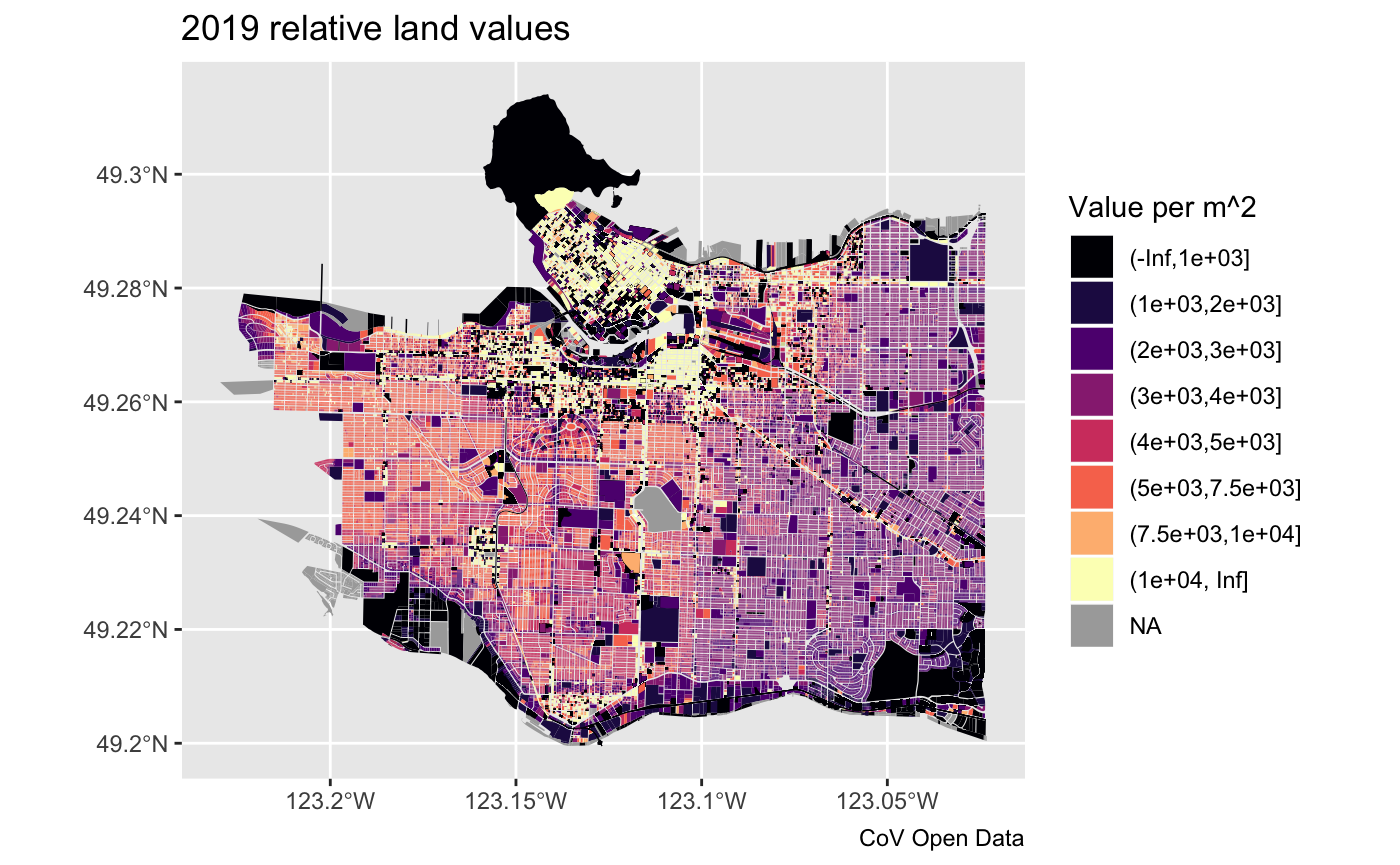
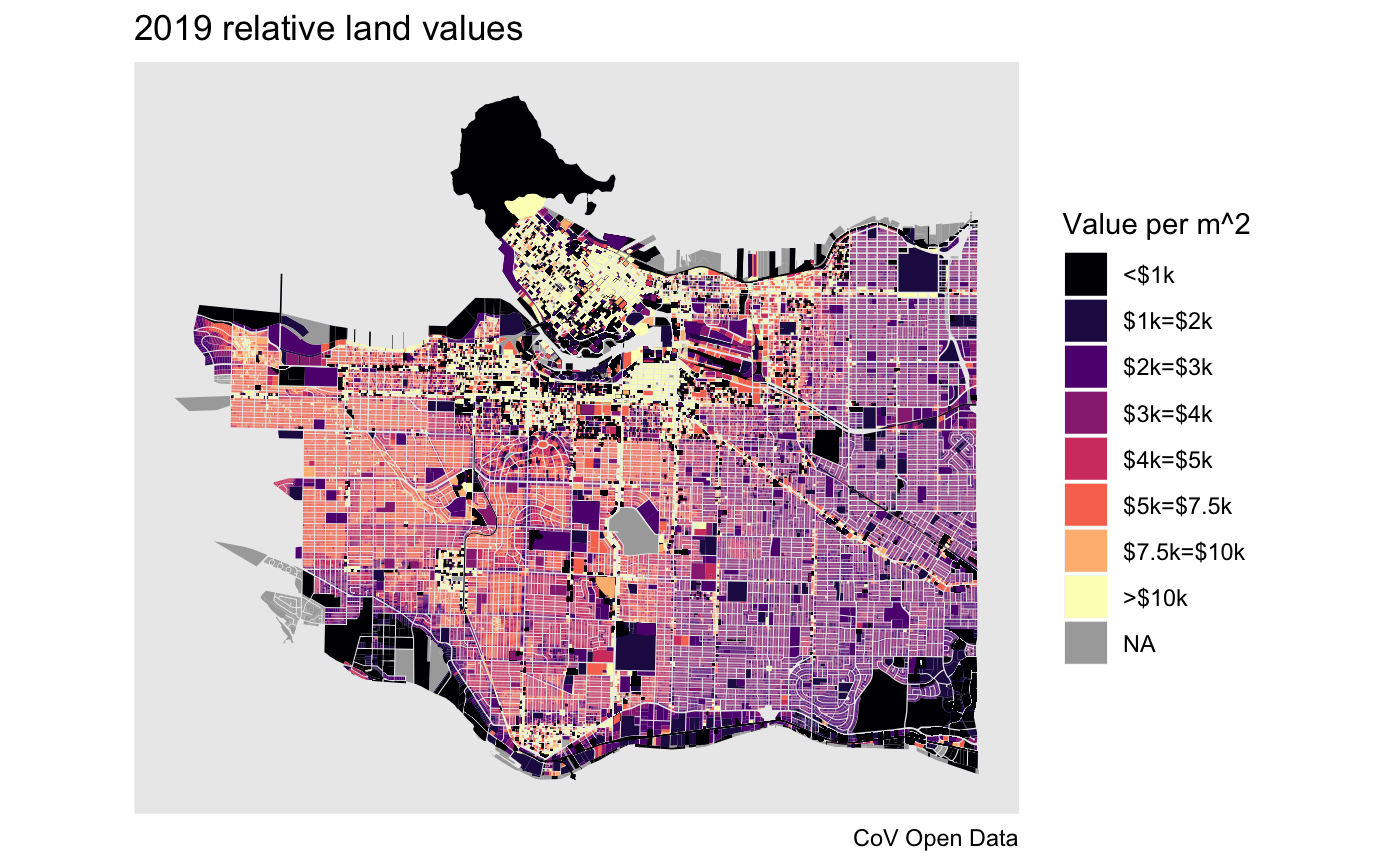
update readme

diff --git a/docs/articles/Demo.html b/docs/articles/Demo.html
@@ -93,21 +93,20 @@
 <div id="get-a-list-of-property-related-datasets" class="section level2">
 <h2 class="hasAnchor">
 <a href="#get-a-list-of-property-related-datasets" class="anchor"></a>Get a list of property related datasets</h2>
-<div class="sourceCode" id="cb2"><pre class="sourceCode r"><code class="sourceCode r"><a class="sourceLine" id="cb2-1" data-line-number="1">l &lt;-<span class="st"> </span><span class="kw"><a href="../reference/list_cov_datasets.html">list_cov_datasets</a></span>() <span class="op">%&gt;%</span></a>
+<div class="sourceCode" id="cb2"><pre class="sourceCode r"><code class="sourceCode r"><a class="sourceLine" id="cb2-1" data-line-number="1"><span class="kw"><a href="../reference/list_cov_datasets.html">list_cov_datasets</a></span>() <span class="op">%&gt;%</span></a>
 <a class="sourceLine" id="cb2-2" data-line-number="2"><span class="st">  </span><span class="kw"><a href="https://www.rdocumentation.org/packages/stats/topics/filter">filter</a></span>(<span class="kw"><a href="https://www.rdocumentation.org/packages/base/topics/grep">grepl</a></span>(<span class="st">"property"</span>,title,<span class="dt">ignore.case =</span> <span class="ot">TRUE</span>)) <span class="op">%&gt;%</span></a>
 <a class="sourceLine" id="cb2-3" data-line-number="3"><span class="st">  </span><span class="kw">select</span>(dataset_id,title)</a>
-<a class="sourceLine" id="cb2-4" data-line-number="4">l</a>
-<a class="sourceLine" id="cb2-5" data-line-number="5"><span class="co">#&gt; # A tibble: 8 x 2</span></a>
-<a class="sourceLine" id="cb2-6" data-line-number="6"><span class="co">#&gt;   dataset_id                        title                            </span></a>
-<a class="sourceLine" id="cb2-7" data-line-number="7"><span class="co">#&gt;   &lt;chr&gt;                             &lt;chr&gt;                            </span></a>
-<a class="sourceLine" id="cb2-8" data-line-number="8"><span class="co">#&gt; 1 property-tax-report-2006-2013     Property tax report 2006-2013    </span></a>
-<a class="sourceLine" id="cb2-9" data-line-number="9"><span class="co">#&gt; 2 property-addresses                Property addresses               </span></a>
-<a class="sourceLine" id="cb2-10" data-line-number="10"><span class="co">#&gt; 3 property-cadastral-boundaries     Property cadastral boundaries    </span></a>
-<a class="sourceLine" id="cb2-11" data-line-number="11"><span class="co">#&gt; 4 property-easements                Property easements               </span></a>
-<a class="sourceLine" id="cb2-12" data-line-number="12"><span class="co">#&gt; 5 property-tie-lines                Property tie lines               </span></a>
-<a class="sourceLine" id="cb2-13" data-line-number="13"><span class="co">#&gt; 6 property-tax-report               Property tax report              </span></a>
-<a class="sourceLine" id="cb2-14" data-line-number="14"><span class="co">#&gt; 7 property-use-inspection-districts Property use inspection districts</span></a>
-<a class="sourceLine" id="cb2-15" data-line-number="15"><span class="co">#&gt; 8 property-parcel-polygons          Property parcel polygons</span></a></code></pre></div>
+<a class="sourceLine" id="cb2-4" data-line-number="4"><span class="co">#&gt; # A tibble: 8 x 2</span></a>
+<a class="sourceLine" id="cb2-5" data-line-number="5"><span class="co">#&gt;   dataset_id                        title                            </span></a>
+<a class="sourceLine" id="cb2-6" data-line-number="6"><span class="co">#&gt;   &lt;chr&gt;                             &lt;chr&gt;                            </span></a>
+<a class="sourceLine" id="cb2-7" data-line-number="7"><span class="co">#&gt; 1 property-tax-report-2006-2013     Property tax report 2006-2013    </span></a>
+<a class="sourceLine" id="cb2-8" data-line-number="8"><span class="co">#&gt; 2 property-addresses                Property addresses               </span></a>
+<a class="sourceLine" id="cb2-9" data-line-number="9"><span class="co">#&gt; 3 property-cadastral-boundaries     Property cadastral boundaries    </span></a>
+<a class="sourceLine" id="cb2-10" data-line-number="10"><span class="co">#&gt; 4 property-easements                Property easements               </span></a>
+<a class="sourceLine" id="cb2-11" data-line-number="11"><span class="co">#&gt; 5 property-tie-lines                Property tie lines               </span></a>
+<a class="sourceLine" id="cb2-12" data-line-number="12"><span class="co">#&gt; 6 property-tax-report               Property tax report              </span></a>
+<a class="sourceLine" id="cb2-13" data-line-number="13"><span class="co">#&gt; 7 property-use-inspection-districts Property use inspection districts</span></a>
+<a class="sourceLine" id="cb2-14" data-line-number="14"><span class="co">#&gt; 8 property-parcel-polygons          Property parcel polygons</span></a></code></pre></div>
 </div>
 <div id="get-data-for-property-tax-report-and-property-polygons" class="section level2">
 <h2 class="hasAnchor">
@@ -120,13 +119,14 @@
 <a class="sourceLine" id="cb4-2" data-line-number="2"><span class="st">  </span><span class="kw">left_join</span>(tax_data,<span class="dt">by=</span><span class="kw"><a href="https://www.rdocumentation.org/packages/base/topics/c">c</a></span>(<span class="st">"tax_coord"</span>=<span class="st">"land_coordinate"</span>)) <span class="op">%&gt;%</span></a>
 <a class="sourceLine" id="cb4-3" data-line-number="3"><span class="st">  </span><span class="kw">mutate</span>(<span class="dt">rlv=</span>current_land_value<span class="op">/</span><span class="kw"><a href="https://www.rdocumentation.org/packages/base/topics/numeric">as.numeric</a></span>(sf<span class="op">::</span><span class="kw"><a href="https://www.rdocumentation.org/packages/sf/topics/geos_measures">st_area</a></span>(geometry))) <span class="op">%&gt;%</span></a>
 <a class="sourceLine" id="cb4-4" data-line-number="4"><span class="st">  </span><span class="kw">mutate</span>(<span class="dt">rlvd=</span><span class="kw"><a href="https://www.rdocumentation.org/packages/base/topics/cut">cut</a></span>(rlv,<span class="dt">breaks=</span><span class="kw"><a href="https://www.rdocumentation.org/packages/base/topics/c">c</a></span>(<span class="op">-</span><span class="ot">Inf</span>,<span class="dv">1000</span>,<span class="dv">2000</span>,<span class="dv">3000</span>,<span class="dv">4000</span>,<span class="dv">5000</span>,<span class="dv">7500</span>,<span class="dv">10000</span>,<span class="ot">Inf</span>),</a>
-<a class="sourceLine" id="cb4-5" data-line-number="5">                  <span class="dt">values=</span><span class="kw"><a href="https://www.rdocumentation.org/packages/base/topics/c">c</a></span>(<span class="st">"&lt;$1k"</span>,<span class="st">"$1k=$2k"</span>,<span class="st">"$2k=$3k"</span>,<span class="st">"$3k=$4k"</span>,<span class="st">"$4k=$5k"</span>,<span class="st">"$5k=$7.5k"</span>,<span class="st">"$7.5k=$10k"</span>,<span class="st">"&gt;$10k"</span>),</a>
+<a class="sourceLine" id="cb4-5" data-line-number="5">                  <span class="dt">labels=</span><span class="kw"><a href="https://www.rdocumentation.org/packages/base/topics/c">c</a></span>(<span class="st">"&lt;$1k"</span>,<span class="st">"$1k=$2k"</span>,<span class="st">"$2k=$3k"</span>,<span class="st">"$3k=$4k"</span>,<span class="st">"$4k=$5k"</span>,<span class="st">"$5k=$7.5k"</span>,<span class="st">"$7.5k=$10k"</span>,<span class="st">"&gt;$10k"</span>),</a>
 <a class="sourceLine" id="cb4-6" data-line-number="6">                  <span class="dt">ordered_result =</span> <span class="ot">TRUE</span>))</a>
 <a class="sourceLine" id="cb4-7" data-line-number="7"><span class="co">#&gt; Linking to GEOS 3.6.1, GDAL 2.1.3, PROJ 4.9.3</span></a>
 <a class="sourceLine" id="cb4-8" data-line-number="8"><span class="kw">ggplot</span>(plot_data) <span class="op">+</span></a>
 <a class="sourceLine" id="cb4-9" data-line-number="9"><span class="st">  </span><span class="kw">geom_sf</span>(<span class="kw">aes</span>(<span class="dt">fill=</span>rlvd),<span class="dt">color=</span><span class="ot">NA</span>) <span class="op">+</span></a>
 <a class="sourceLine" id="cb4-10" data-line-number="10"><span class="st">  </span><span class="kw">scale_fill_viridis_d</span>(<span class="dt">option=</span><span class="st">"magma"</span>,<span class="dt">na.value=</span><span class="st">"darkgrey"</span>) <span class="op">+</span></a>
-<a class="sourceLine" id="cb4-11" data-line-number="11"><span class="st">  </span><span class="kw">labs</span>(<span class="dt">title=</span><span class="st">"2019 relative land values"</span>,<span class="dt">fill=</span><span class="st">"Value per m^2"</span>,<span class="dt">caption=</span><span class="st">"CoV Open Data"</span>)</a></code></pre></div>
+<a class="sourceLine" id="cb4-11" data-line-number="11"><span class="st">  </span><span class="kw">labs</span>(<span class="dt">title=</span><span class="st">"2019 relative land values"</span>,<span class="dt">fill=</span><span class="st">"Value per m^2"</span>,<span class="dt">caption=</span><span class="st">"CoV Open Data"</span>) <span class="op">+</span></a>
+<a class="sourceLine" id="cb4-12" data-line-number="12"><span class="st">  </span><span class="kw">coord_sf</span>(<span class="dt">datum=</span><span class="ot">NA</span>)</a></code></pre></div>
 <p><img src="Demo_files/figure-html/unnamed-chunk-4-1.png" width="700"></p>
 </div>
   </div>
